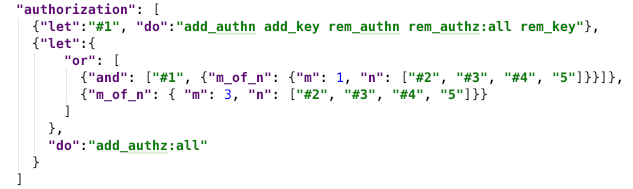
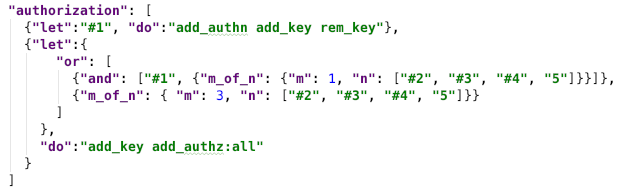
Tweak discussion of authorization

diff --git a/text/connection-mgmt-protocols/README.md b/text/connection-mgmt-protocols/README.md
@@ -124,12 +124,16 @@ supported by the relationship management protocol:
 
 * Adding, removing, or rotating keys (op codes = `add_key`, `rem_key`, and `update_key`)
 * Adding and removing key references from the `authentication` or
-  `authorization` section (op codes = `add_authn`, `rem_authn`, `add_authz`, `rem_authz`)
+  `authorization` section (this must be done at the same time as `add_key` or `rem_key`,
+  since key privileges are immutable after creation)
 * Adding, removing, or reconfiguring endpoints (op codes = `add_endpoint`, `rem_endpoint`, `update_endpoint`)
 
 ##### Authorizing Keys
 
-The structure of the `authorization` section of a DID Doc is:
+All keys have the privilege of rotating themselves. Keys that have the privilege
+of adding keys can only add keys with equal or lesser privileges than themselves.
+All other authorizations on keys must be specified in the `authorization` section
+of a DID doc. Its structure is:
 
 * `“authorization”: [` list of __grants__ `]`
 * __grant__ = `{ "let": ` __recipient__ `, “do”: ` __privs__ `}`
@@ -142,19 +146,9 @@ The structure of the `authorization` section of a DID Doc is:
 * __privs__ = a string that enumerates the privileges being granted.
   This string is list-like, but is not modeled using a JSON list or dict
   because of some specialized syntax that conflicts with canonicalization
-  requirements. Its format is an alphabetized, space-delimited list of
-  privileges, where each privilege is either an op code name, or an
-  __authz grant__. For example, `add_key` and `rem_endpoint`
-  are op code names that grant the privilege of adding keys and removing
-  endpoints, respectively. An __authz grant__ gives the privilege of
-  granting or revoking privileges. It begins with one of the
-  authz op code names ("add_authz" or "rem_authz", and is followed by
-  a sorted, comma-but-not-space-delimited list of op codes). 
-  To grant the privilege of granting the `add_endpoint` and `rem_endpoint` privileges,
-  use `add_authz:add_endpoint,rem_endpoint`; to grant the privilege of revoking the
-  `rem_key` privilege, use `rem_authz:rem_key`. To grant or revoke the privilege of
-  granting or revoking all privileges, use the reserved keyword `all` as the
-  privilege.
+  requirements. Its format is space-delimited list of
+  privileges, where each privilege is an op code name. The list must be
+  sorted in ascending alphabetical order to aid normalization.
 
 Basically, authorizations are a series of grants. Grants identify the recipient,
 which is either a key or a combination of keys, and the privileges that the recipient
